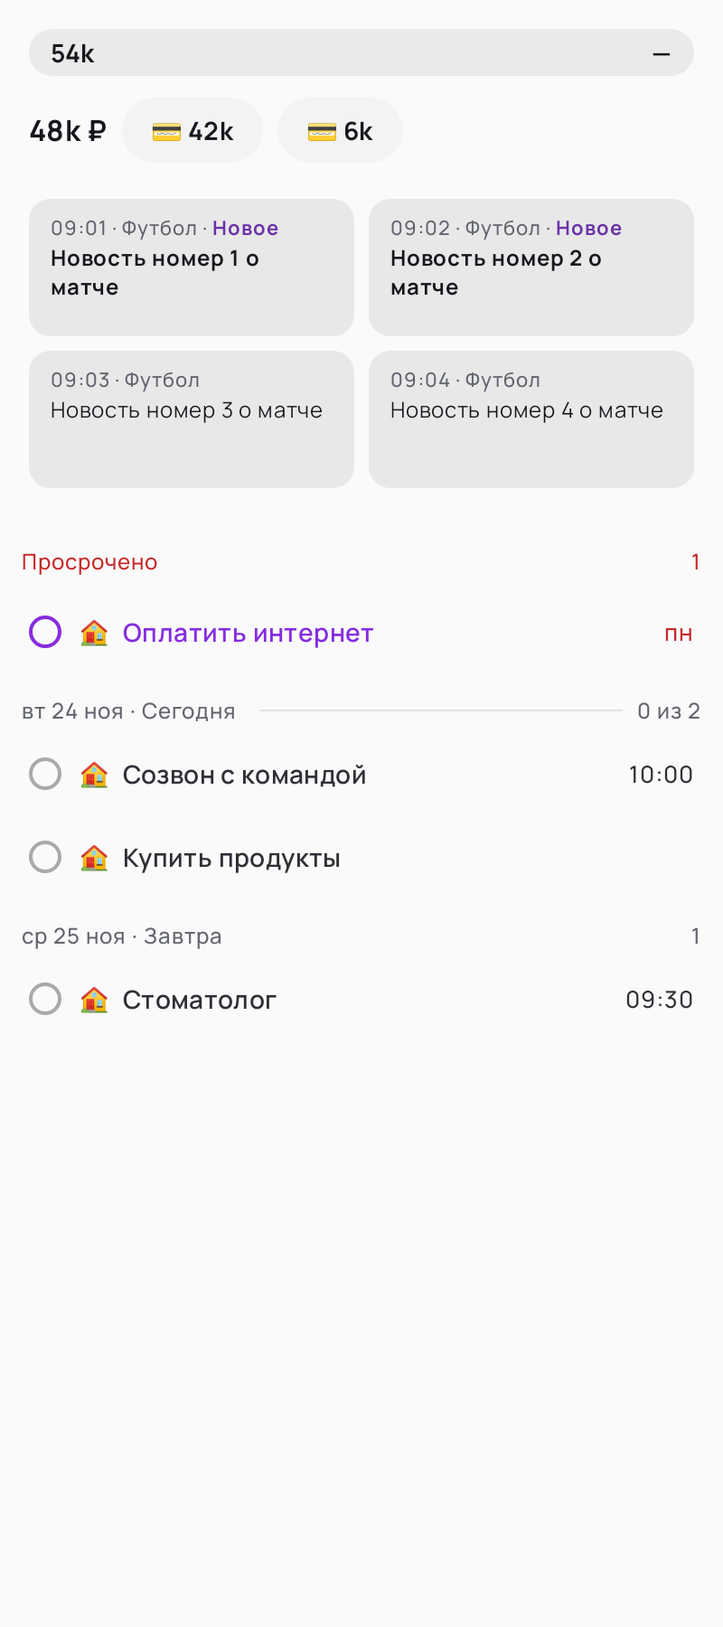
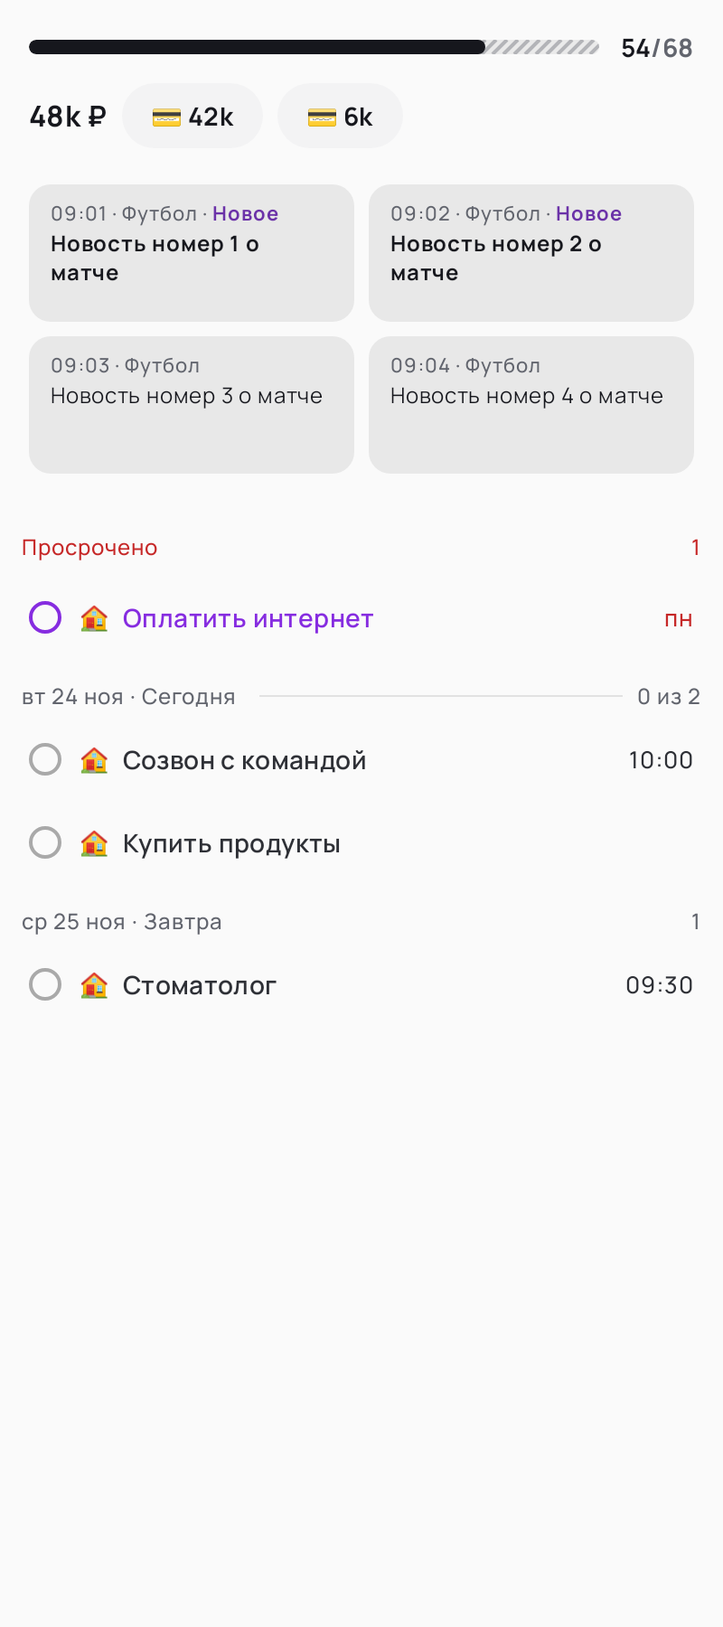
#348: цифры факт/прогноз/план справа от полосы хаба, 0.99.0
Claude-Session: https://claude.ai/code/session_019jJJH8rKyfX5gCn8Qf3pcD

diff --git a/app/src/main/java/com/prostovasei/simpletasks/ui/feature/finance/Budget.kt b/app/src/main/java/com/prostovasei/simpletasks/ui/feature/finance/Budget.kt
@@ -1,5 +1,6 @@
 package com.prostovasei.simpletasks.ui.feature.finance
 
+import androidx.compose.ui.text.withStyle
 import androidx.compose.ui.draw.drawBehind
 import androidx.compose.foundation.background
 import androidx.compose.foundation.clickable
@@ -185,60 +186,79 @@ internal fun LimitBar(
 }
 
 /**
- * Полоса лимита хаба (#346, выбор PM): внутри слева потрачено без «₽», штриховка от потраченного до прогноза и сумма прогноза
- * у её конца, лимит — у правого края. Отметки «сегодня» и строки под полосой нет. Прогноз больше лимита — штриховка до края,
- * сумма красная у лимита.
+ * Полоса лимита хаба (#348, выбор PM): тонкая полоса со штриховкой до прогноза, справа «факт/прогноз/план» 13 sp —
+ * факт и план чёрные, прогноз серый. План превышен — шкала до максимума и чёрная риска на месте плана; факт больше плана —
+ * факт и заливка красные, прогноз больше плана — прогноз оранжевый. Без бюджета — «факт/прогноз».
  */
 @Composable
-private fun HubLimitBar(spent: Long, limit: Long?, forecast: Long?, color: Color, inside: Boolean, onClick: () -> Unit) {
+private fun HubLimitBar(spent: Long, limit: Long?, forecast: Long?, @Suppress("UNUSED_PARAMETER") color: Color, @Suppress("UNUSED_PARAMETER") inside: Boolean, onClick: () -> Unit) {
     val colors = AppTheme.colors
     val spacing = AppTheme.spacing
     val hatch = colors.textSecondary.copy(alpha = HATCH_ALPHA)
-    val fill = if (limit == null) 0f else (spent.toFloat() / limit).coerceIn(0f, 1f)
-    val forecastShare = if (limit == null || forecast == null) null else (forecast.toFloat() / limit).coerceAtLeast(fill)
-    val over = forecastShare != null && forecastShare > 1f
-    BoxWithConstraints(
-        Modifier.fillMaxWidth().padding(vertical = spacing.xxs).height(SizeTokens.LIMIT_BAR.dp).clip(CircleShape).background(colors.accentSoft)
-            .clickable(role = Role.Button, onClick = onClick).testTag(TAG_LIMIT_BAR),
-    ) {
-        val width = maxWidth
-        forecastShare?.let { share ->
-            val end = share.coerceAtMost(1f)
-            Box(
-                Modifier.offset(x = width * fill).width(width * (end - fill)).fillMaxHeight().testTag(TAG_LIMIT_FORECAST_FILL)
-                    .drawBehind {
-                        val step = SizeTokens.LIMIT_HATCH.dp.toPx()
-                        var x = -size.height
-                        while (x < size.width) {
-                            drawLine(hatch, androidx.compose.ui.geometry.Offset(x, size.height), androidx.compose.ui.geometry.Offset(x + size.height, 0f), strokeWidth = step / 3)
-                            x += step
-                        }
-                    },
-            )
+    val scale = HubBarScale.of(spent, limit, forecast)
+    val factColor = if (scale.factOver) colors.danger else colors.textPrimary
+    val numbers = androidx.compose.ui.text.buildAnnotatedString {
+        withStyle(androidx.compose.ui.text.SpanStyle(color = factColor)) { append(financeNumber(spent)) }
+        if (forecast != null) {
+            withStyle(androidx.compose.ui.text.SpanStyle(color = colors.textSecondary)) { append("/") }
+            withStyle(androidx.compose.ui.text.SpanStyle(color = if (scale.forecastOver) colors.warning else colors.textSecondary)) { append(financeNumber(forecast)) }
         }
-        Box(Modifier.fillMaxHeight().fillMaxWidth(fill).clip(CircleShape).background(color))
+        if (limit != null) {
+            withStyle(androidx.compose.ui.text.SpanStyle(color = colors.textSecondary)) { append("/") }
+            withStyle(androidx.compose.ui.text.SpanStyle(color = colors.textPrimary)) { append(financeNumber(limit)) }
+        }
+    }
+    Row(
+        Modifier.fillMaxWidth().clip(AppTheme.shapes.large).clickable(role = Role.Button, onClick = onClick).padding(vertical = spacing.xxs)
+            .testTag(TAG_LIMIT_BAR),
+        verticalAlignment = Alignment.CenterVertically, horizontalArrangement = Arrangement.spacedBy(spacing.sm),
+    ) {
+        BoxWithConstraints(Modifier.weight(1f).height(SizeTokens.HUB_LIMIT_BAR.dp).clip(CircleShape).background(colors.accentSoft)) {
+            val width = maxWidth
+            if (scale.forecast > scale.fact) {
+                Box(
+                    Modifier.offset(x = width * scale.fact).width(width * (scale.forecast - scale.fact)).fillMaxHeight().testTag(TAG_LIMIT_FORECAST_FILL)
+                        .drawBehind {
+                            val step = SizeTokens.LIMIT_HATCH.dp.toPx()
+                            var x = -size.height
+                            while (x < size.width) {
+                                drawLine(hatch, androidx.compose.ui.geometry.Offset(x, size.height), androidx.compose.ui.geometry.Offset(x + size.height, 0f), strokeWidth = step / 3)
+                                x += step
+                            }
+                        },
+                )
+            }
+            if (scale.fact > 0f) Box(Modifier.fillMaxHeight().fillMaxWidth(scale.fact).clip(CircleShape).background(factColor))
+            scale.plan?.let { plan ->
+                Box(Modifier.offset(x = width * plan - (SizeTokens.HUB_LIMIT_TICK / 2f).dp).width(SizeTokens.HUB_LIMIT_TICK.dp).fillMaxHeight()
+                    .background(colors.textPrimary).testTag(TAG_LIMIT_GOAL))
+            }
+        }
         Text(
-            financeThousands(spent), Modifier.align(Alignment.CenterStart).padding(horizontal = spacing.sm).testTag(TAG_ANALYTICS_TOTAL),
-            style = MaterialTheme.typography.labelLarge, fontWeight = FontWeight.Bold, color = if (inside) colors.onAccent else colors.textPrimary, maxLines = 1,
+            numbers, Modifier.testTag(TAG_LIMIT_FORECAST), style = MaterialTheme.typography.labelLarge, fontWeight = FontWeight.Bold, maxLines = 1,
         )
-        val limitText = limit?.let(::financeThousands) ?: "—"
-        Text(limitText, Modifier.align(Alignment.CenterEnd).padding(horizontal = spacing.sm).testTag(TAG_LIMIT_GOAL),
-            style = MaterialTheme.typography.labelLarge, fontWeight = FontWeight.Bold, color = colors.textPrimary, maxLines = 1)
-        if (forecast != null && forecastShare != null) {
-            val text = financeThousands(forecast)
-            // Сумма прогноза — у конца штриховки, но не заходит на лимит справа; при превышении лимита — красная у лимита.
-            val reserve = SizeTokens.LIMIT_LABEL_RESERVE.dp
-            val endX = if (over) width - reserve else (width * forecastShare).coerceAtMost(width - reserve)
-            Text(
-                text,
-                Modifier.align(Alignment.CenterStart).width(endX).padding(end = spacing.xs).testTag(TAG_LIMIT_FORECAST),
-                style = MaterialTheme.typography.labelMedium, fontWeight = FontWeight.SemiBold, maxLines = 1,
-                textAlign = androidx.compose.ui.text.style.TextAlign.End,
-                color = if (over) colors.danger else colors.textSecondary,
+    }
+}
+
+/** #348: доли полосы хаба — шкала до максимума из плана, факта и прогноза; [plan] — место риски, только если план превышен. */
+internal data class HubBarScale(val fact: Float, val forecast: Float, val plan: Float?, val factOver: Boolean, val forecastOver: Boolean) {
+    companion object {
+        fun of(spent: Long, limit: Long?, forecast: Long?): HubBarScale {
+            val max = maxOf(limit ?: 0L, spent, forecast ?: 0L).coerceAtLeast(1L).toFloat()
+            val factOver = limit != null && spent > limit
+            val forecastOver = limit != null && forecast != null && forecast > limit
+            return HubBarScale(
+                fact = spent / max,
+                forecast = ((forecast ?: spent) / max).coerceAtLeast(spent / max),
+                plan = if (limit != null && (factOver || forecastOver)) limit / max else null,
+                factOver = factOver, forecastOver = forecastOver,
             )
         }
     }
 }
+
+/** #348: число в тысячах без «k» и «₽» — «42», «104». */
+internal fun financeNumber(amount: Long): String = financeThousands(amount).removeSuffix("k")
 
 /** Подпись хаба (#338): значок и сумма серым 12 sp — «прогноз», «в среднем в день», «осталось» в одном стиле. */
 @Composable

diff --git a/app/src/main/java/com/prostovasei/simpletasks/widget/WidgetFinance.kt b/app/src/main/java/com/prostovasei/simpletasks/widget/WidgetFinance.kt
@@ -1,5 +1,8 @@
 package com.prostovasei.simpletasks.widget
 
+import com.prostovasei.simpletasks.designsystem.tokens.SpacingTokens
+import com.prostovasei.simpletasks.ui.feature.finance.financeNumber
+import com.prostovasei.simpletasks.ui.feature.finance.HubBarScale
 import android.app.PendingIntent
 import android.content.Context
 import android.os.Build
@@ -211,63 +214,61 @@ internal class FinanceRows(private val context: Context, private val width: Int,
     }
 
     /**
-     * Полоса хаба (#346, как в приложении): трек на всю ширину, штриховка от потраченного до прогноза, заливка потраченного;
-     * слева «42k», у конца штриховки — прогноз (больше лимита — красный у лимита), справа внутри — лимит. Рисуется в 2×.
+     * Полоса хаба (#348, как в приложении): тонкая полоса со штриховкой до прогноза и риской превышенного плана,
+     * справа «факт/прогноз/план» 13 sp. Рисуется в 2×; высота картинки — по строке цифр, полоса по центру.
      */
-    private fun hubLimitBar(spent: Long, limit: Long?, pace: BudgetPace?, forecast: Long?): Bitmap {
+    private fun hubLimitBar(spent: Long, limit: Long?, @Suppress("UNUSED_PARAMETER") pace: BudgetPace?, forecast: Long?): Bitmap {
         val scale = 2f
         val width = ((width.coerceIn(180, 440) - 12) * scale).toInt()
-        val height = (SizeTokens.LIMIT_BAR * scale).toInt()
+        val paint = Paint(Paint.ANTI_ALIAS_FLAG)
+        paint.typeface = android.graphics.Typeface.DEFAULT_BOLD
+        paint.textSize = 13 * scale
+        val height = ((paint.descent() - paint.ascent()) + 2 * scale).toInt()
         val bitmap = Bitmap.createBitmap(width, height, Bitmap.Config.ARGB_8888)
         bitmap.density = android.util.DisplayMetrics.DENSITY_XHIGH
         val canvas = Canvas(bitmap)
-        val paint = Paint(Paint.ANTI_ALIAS_FLAG)
-        val radius = height / 2f
-        val clip = android.graphics.Path().apply { addRoundRect(0f, 0f, width.toFloat(), height.toFloat(), radius, radius, android.graphics.Path.Direction.CW) }
-        canvas.clipPath(clip)
+        val bars = HubBarScale.of(spent, limit, forecast)
+        val black = ColorTokens.textPrimary.light.toInt()
+        val grey = ColorTokens.textSecondary.light.toInt()
+        val factColor = if (bars.factOver) ColorTokens.danger.light.toInt() else black
+        val parts = buildList {
+            add(financeNumber(spent) to factColor)
+            if (forecast != null) { add("/" to grey); add(financeNumber(forecast) to if (bars.forecastOver) ColorTokens.warning.light.toInt() else grey) }
+            if (limit != null) { add("/" to grey); add(financeNumber(limit) to black) }
+        }
+        val textWidth = parts.sumOf { paint.measureText(it.first).toDouble() }.toFloat()
+        val baseline = height / 2f - (paint.descent() + paint.ascent()) / 2
+        var tx = width - textWidth
+        parts.forEach { (text, color) -> paint.color = color; canvas.drawText(text, tx, baseline, paint); tx += paint.measureText(text) }
+        val barW = width - textWidth - SpacingTokens.SM * scale
+        val bar = SizeTokens.HUB_LIMIT_BAR * scale
+        val top = (height - bar) / 2
+        val radius = bar / 2
+        canvas.save()
+        canvas.clipPath(android.graphics.Path().apply { addRoundRect(0f, top, barW, top + bar, radius, radius, android.graphics.Path.Direction.CW) })
         paint.color = ColorTokens.accentSoft.light.toInt()
-        canvas.drawRect(0f, 0f, width.toFloat(), height.toFloat(), paint)
-        val fill = if (limit == null) 0f else (spent.toFloat() / limit).coerceIn(0f, 1f)
-        val share = if (limit == null || forecast == null) null else (forecast.toFloat() / limit).coerceAtLeast(fill)
-        share?.let {
-            val end = it.coerceAtMost(1f) * width
-            paint.color = ColorTokens.textSecondary.light.toInt()
+        canvas.drawRect(0f, top, barW, top + bar, paint)
+        if (bars.forecast > bars.fact) {
+            paint.color = grey
             paint.alpha = (255 * 0.4f).toInt()
             paint.strokeWidth = SizeTokens.LIMIT_HATCH * scale / 3
             canvas.save()
-            canvas.clipRect(fill * width, 0f, end, height.toFloat())
-            var x = fill * width - height
-            while (x < end) { canvas.drawLine(x, height.toFloat(), x + height, 0f, paint); x += SizeTokens.LIMIT_HATCH * scale }
+            canvas.clipRect(bars.fact * barW, top, bars.forecast * barW, top + bar)
+            var x = bars.fact * barW - bar
+            while (x < bars.forecast * barW) { canvas.drawLine(x, top + bar, x + bar, top, paint); x += SizeTokens.LIMIT_HATCH * scale }
             canvas.restore()
             paint.alpha = 255
         }
-        if (fill > 0f) {
-            paint.color = when (pace) {
-                BudgetPace.AHEAD -> ColorTokens.warning.light
-                BudgetPace.OVER -> ColorTokens.danger.light
-                else -> ColorTokens.textPrimary.light
-            }.toInt()
-            canvas.drawRoundRect(0f, 0f, maxOf(width * fill, height.toFloat()), height.toFloat(), radius, radius, paint)
+        if (bars.fact > 0f) {
+            paint.color = factColor
+            canvas.drawRoundRect(0f, top, maxOf(barW * bars.fact, bar), top + bar, radius, radius, paint)
         }
-        paint.typeface = android.graphics.Typeface.DEFAULT_BOLD
-        paint.textSize = 13 * scale
-        val baseline = height / 2f - (paint.descent() + paint.ascent()) / 2
-        val pad = SizeTokens.BUDGET_BAR * 2 * scale
-        paint.color = (if (fill >= 0.3f) ColorTokens.onAccent.light else ColorTokens.textPrimary.light).toInt()
-        canvas.drawText(financeThousands(spent), pad, baseline, paint)
-        val limitText = limit?.let(::financeThousands) ?: "—"
-        paint.color = ColorTokens.textPrimary.light.toInt()
-        val limitX = width - pad - paint.measureText(limitText)
-        canvas.drawText(limitText, limitX, baseline, paint)
-        if (share != null && forecast != null) {
-            val text = financeThousands(forecast)
-            paint.textSize = 12 * scale
-            val w = paint.measureText(text)
-            val over = share > 1f
-            val right = if (over) limitX - pad / 2 else minOf(share * width - pad / 2, limitX - pad / 2)
-            paint.color = (if (over) ColorTokens.danger.light else ColorTokens.textSecondary.light).toInt()
-            canvas.drawText(text, right - w, baseline, paint)
+        bars.plan?.let { plan ->
+            paint.color = black
+            val half = SizeTokens.HUB_LIMIT_TICK * scale / 2
+            canvas.drawRect(plan * barW - half, top, plan * barW + half, top + bar, paint)
         }
+        canvas.restore()
         return bitmap
     }
 

diff --git a/app/src/main/java/com/prostovasei/simpletasks/ui/feature/hub/HubScreen.kt b/app/src/main/java/com/prostovasei/simpletasks/ui/feature/hub/HubScreen.kt
@@ -55,6 +55,7 @@ import com.prostovasei.simpletasks.data.news.SportsNews
 import com.prostovasei.simpletasks.designsystem.theme.AppTheme
 import com.prostovasei.simpletasks.designsystem.tokens.FinanceShareColors
 import com.prostovasei.simpletasks.designsystem.tokens.SizeTokens
+import com.prostovasei.simpletasks.designsystem.tokens.SpacingTokens
 import com.prostovasei.simpletasks.domain.model.finance.Account
 import com.prostovasei.simpletasks.domain.model.finance.MonthSpending
 import com.prostovasei.simpletasks.domain.model.finance.financeThousands
@@ -232,7 +233,7 @@ private fun HubAccounts(accounts: List<Account>, total: Long) {
     val spacing = AppTheme.spacing
     // #336 (выбор PM): плашки счетов крупнее — 14 sp и поля 12 × 8; не помещаются — листаются вбок.
     Row(
-        Modifier.fillMaxWidth().padding(top = spacing.xs).horizontalScroll(rememberScrollState()),
+        Modifier.fillMaxWidth().padding(top = (SizeTokens.HUB_FINANCE_GAP - SpacingTokens.XXS).dp).horizontalScroll(rememberScrollState()),
         horizontalArrangement = Arrangement.spacedBy(spacing.xs), verticalAlignment = Alignment.CenterVertically,
     ) {
         Text("${financeThousands(total)} ₽", style = MaterialTheme.typography.titleMedium, fontWeight = FontWeight.Bold, color = colors.textPrimary, maxLines = 1)

diff --git a/app/src/test/java/com/prostovasei/simpletasks/ui/feature/finance/HubBarScaleTest.kt b/app/src/test/java/com/prostovasei/simpletasks/ui/feature/finance/HubBarScaleTest.kt
@@ -1,0 +1,40 @@
+package com.prostovasei.simpletasks.ui.feature.finance
+
+import org.junit.Assert.assertEquals
+import org.junit.Assert.assertFalse
+import org.junit.Assert.assertNull
+import org.junit.Assert.assertTrue
+import org.junit.Test
+
+/** #348: доли полосы хаба и признаки превышения плана. */
+class HubBarScaleTest {
+    private val k = 100_000L
+
+    @Test fun normalMonthHasNoTick() {
+        val s = HubBarScale.of(42 * k, 90 * k, 48 * k)
+        assertEquals(42f / 90, s.fact, 0.001f)
+        assertEquals(48f / 90, s.forecast, 0.001f)
+        assertNull(s.plan)
+        assertFalse(s.factOver || s.forecastOver)
+    }
+
+    @Test fun forecastOverScalesToForecast() {
+        val s = HubBarScale.of(62 * k, 90 * k, 104 * k)
+        assertEquals(1f, s.forecast, 0.001f)
+        assertEquals(90f / 104, s.plan!!, 0.001f)
+        assertTrue(s.forecastOver); assertFalse(s.factOver)
+    }
+
+    @Test fun factOverIsRed() {
+        val s = HubBarScale.of(97 * k, 90 * k, 112 * k)
+        assertTrue(s.factOver)
+        assertEquals(90f / 112, s.plan!!, 0.001f)
+    }
+
+    @Test fun noBudgetScalesToForecast() {
+        val s = HubBarScale.of(42 * k, null, 48 * k)
+        assertNull(s.plan)
+        assertEquals(1f, s.forecast, 0.001f)
+        assertEquals("42", financeNumber(42 * k))
+    }
+}

diff --git a/app/src/main/java/com/prostovasei/simpletasks/designsystem/tokens/DimensionTokens.kt b/app/src/main/java/com/prostovasei/simpletasks/designsystem/tokens/DimensionTokens.kt
@@ -448,6 +448,10 @@ object SizeTokens {
     /** #346: шаг штриховки прогноза и место под лимит у правого края полосы хаба. */
     const val LIMIT_HATCH = 6
     const val LIMIT_LABEL_RESERVE = 44
+    /** #348: полоса хаба — толщина, риска плана, отступ до счетов. */
+    const val HUB_LIMIT_BAR = 8
+    const val HUB_LIMIT_TICK = 2
+    const val HUB_FINANCE_GAP = 10
     const val PICKER_TILE = 76
     const val PICKER_ICON = 24
     const val TASK_CHECK_GAP = 10

diff --git a/docs/ARCHITECTURE.md b/docs/ARCHITECTURE.md
@@ -1767,6 +1767,10 @@ Compose и RemoteViews используют общие сокращения ме
 
 `VoiceSheet` ставит карточку как `TaskSheet`: `rememberKeyboardHeight` (запасные 40 % высоты), отступ снизу = max(клавиатура, ime, навигация) + 8 dp, высота `SizeTokens.VOICE_HEIGHT` = 212 dp. Внизу `Tide` — `Canvas` с тремя слоями-синусоидами на `VOICE_TIDE_PERCENT` высоты; цвета `ColorTokens.voiceTide` / `voiceCalm` смешиваются по анимированному признаку записи (0,6 с), подъём — громкость × `VOICE_TIDE_RISE`. Фаза волн — свои часы `tidePhase` на `withInfiniteAnimationFrameNanos`: на паузе волны замедляются вместе с переходом в серый и замирают на месте, после ⏺ продолжают с той же фазы (без рывка к началу); кадры идут только пока вода движется и при включённых анимациях системы. `withInfiniteAnimationFrameNanos`, а не `withFrameNanos` — иначе тесты Compose не дожидаются покоя. Карточка гасит нажатия через `pointerInput`, без `clickable` (не лишняя кнопка для TalkBack); ошибка — `liveRegion`, «●» озвучивается словами. Кнопки — `SheetButton` 50 dp (⏸/⏺ `ic_voice_pause`/`ic_voice_record`, галочка `ic_voice_check`); ошибка — `errorText` между ними, у `NO_PERMISSION` текст ведёт в настройки (`onSettings`). `blocking()` — нет доступа, недоступно, нет языка: ⏺ неактивна. Логика `VoiceRoute`/`VoiceState`/движка (#299, #302) не менялась. Старые токены микрофона (`VOICE_MIC`, `VOICE_GLOW`…) и строки подписей удалены.
 
+### 4.125. Цифры «факт/прогноз/план» в хабе (#348, 0.99.0)
+
+`HubLimitBar`: `Row` — полоса `HUB_LIMIT_BAR` 8 (трек, штриховка, заливка, риска `HUB_LIMIT_TICK` — `TAG_LIMIT_GOAL`) и текст `AnnotatedString` (`TAG_LIMIT_FORECAST`). Доли и признаки превышения — общий `HubBarScale.of(spent, limit, forecast)` (шкала до максимума), числа — `financeNumber` (тысячи без «k»). Счета — отступ `HUB_FINANCE_GAP` 10. Виджет: `FinanceRows.hubLimitBar` рисует то же в одну картинку высотой строки цифр, `widget_hub_limit` — `paddingBottom` 6dp.
+
 ### 4.124. Хаб без заголовков, прогноз в полосе (#346, 0.98.0)
 
 `HubScreen`: `HubSectionTitle` не вызывается (отступы); `HubNewsPager` без точек, поверх пейджера `Row(matchParentSize)` с невидимыми краями `HUB_NEWS_EDGE` 0,18 (`TAG_HUB_NEWS_PREV|NEXT`, `animateScrollToPage` по кругу). `LimitBar(daily = true)` → `HubLimitBar`: трек, штриховка `drawBehind` до `forecast/limit` (`LIMIT_HATCH`), заливка, «42k» (`financeThousands`), лимит справа (`TAG_LIMIT_GOAL`), прогноз у конца штриховки с запасом `LIMIT_LABEL_RESERVE` (`TAG_LIMIT_FORECAST`), больше лимита — `danger`. Виджет: `widget_hub_root` — заголовки `gone`, новости в `FrameLayout` с краями `widget_hub_prev|next` (FrameLayout, веса 18/64/18; одна страница — `GONE`); `widget_hub_limit` — одна картинка `FinanceRows.hubLimitBar` (то же в 2×).

diff --git a/docs/TESTING-CHECKLIST.md b/docs/TESTING-CHECKLIST.md
@@ -1015,6 +1015,10 @@ FP1–FP8, FW1–FW8, FU1–FU8, FS, FN, FB, W3a и FT остаются непо
 | HC346-2 | Коснуться левого и правого края блока новостей | Страница листается назад и вперёд; середина карточки открывает новость; в приложении работает свайп |
 | HC346-3 | Полоса лимита хаба | «42k» без ₽, штриховка до прогноза и его сумма, лимит внутри справа, отметки «сегодня» и строки под полосой нет |
 | HC346-4 | Прогноз больше лимита | Штриховка до края, сумма прогноза красная у лимита |
+| HF348-1 | Хаб в приложении и виджете | Тонкая полоса, справа «42/48/90»: факт и план чёрные, прогноз серый; до счетов заметный отступ |
+| HF348-2 | Прогноз больше бюджета | Прогноз оранжевый, на полосе чёрная риска плана |
+| HF348-3 | Траты больше бюджета | Факт и заливка красные, риска плана |
+| HF348-4 | Бюджет не задан | Справа только «факт/прогноз» |
 | UL331-1 | Открыть «Предстоящее» | Нет вертикальной линии и линии «сейчас»; кружок отделён от времени и названия на 8 dp |
 | UL331-2 | Заголовки дней в приложении | У «Сегодня» полоса и «N из M», у других дней число задач, как в виджете |
 | UL331-3 | Виджет «Предстоящее» | Выглядит так же, как экран приложения |

diff --git a/docs/testing-runs/0.99.0-local.md b/docs/testing-runs/0.99.0-local.md
@@ -1,0 +1,8 @@
+# 0.99.0 — локальная проверка (#348)
+
+26.11.2026, Claude Code. Ветка `claude/hub-finance-numbers` от `claude/release-0980`. PM: конструктор, выбор, «делай сразу код, проверку и выпуск».
+
+- `./gradlew assembleDebug check recordRoborazziDebug` — успешно; lint и проверка дизайн-токенов прошли. Снимки с датой возвращены.
+- Новый `HubBarScaleTest`: норма, прогноз и факт сверх плана, без бюджета. Снимки хаба (приложение, виджет) обновлены.
+
+Не проверено локально: вид на телефоне — HF348.
